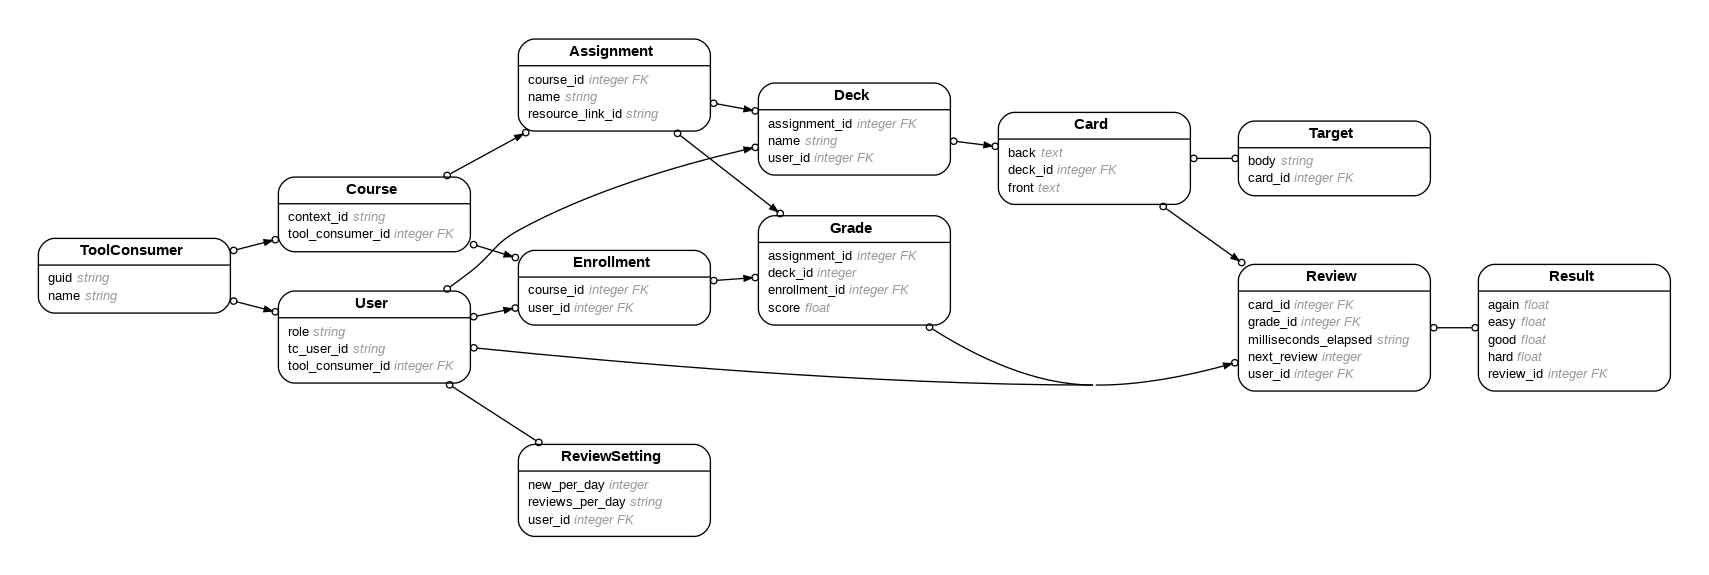
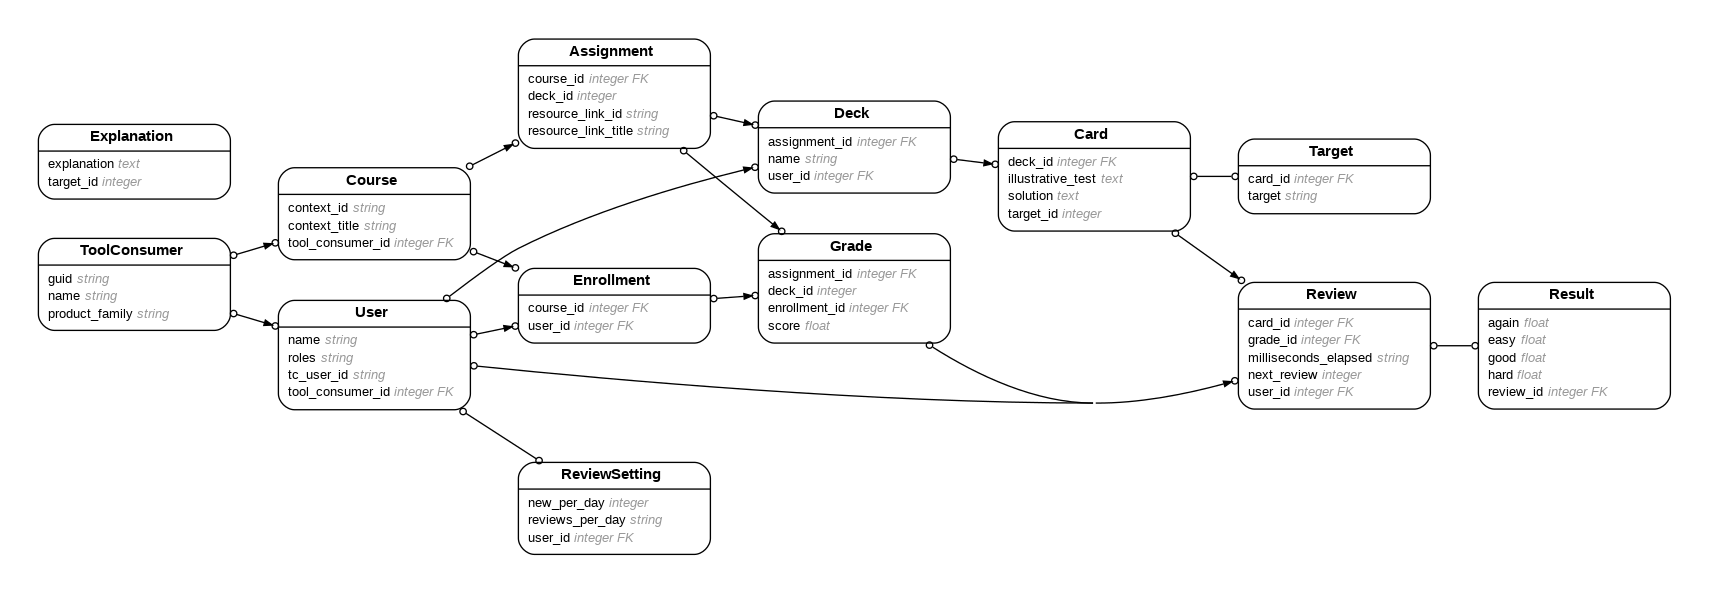
update domain model and update model accordingly

diff --git a/db/schema.rb b/db/schema.rb
@@ -10,7 +10,7 @@
 #
 # It's strongly recommended that you check this file into your version control system.
 
-ActiveRecord::Schema.define(version: 2021_05_31_220739) do
+ActiveRecord::Schema.define(version: 2021_08_11_215713) do
 
   # These are extensions that must be enabled in order to support this database
   enable_extension "plpgsql"
@@ -18,15 +18,17 @@ ActiveRecord::Schema.define(version: 2021_05_31_220739) do
   create_table "assignments", force: :cascade do |t|
     t.integer "course_id"
     t.string "resource_link_id"
-    t.string "name"
+    t.string "resource_link_title"
+    t.integer "deck_id"
     t.datetime "created_at", precision: 6, null: false
     t.datetime "updated_at", precision: 6, null: false
   end
 
   create_table "cards", force: :cascade do |t|
-    t.text "front"
-    t.text "back"
+    t.text "illustrative_test"
+    t.text "solution"
     t.integer "deck_id"
+    t.integer "target_id"
     t.datetime "created_at", precision: 6, null: false
     t.datetime "updated_at", precision: 6, null: false
   end
@@ -34,6 +36,7 @@ ActiveRecord::Schema.define(version: 2021_05_31_220739) do
   create_table "courses", force: :cascade do |t|
     t.integer "tool_consumer_id"
     t.string "context_id"
+    t.string "context_title"
     t.datetime "created_at", precision: 6, null: false
     t.datetime "updated_at", precision: 6, null: false
   end
@@ -49,6 +52,13 @@ ActiveRecord::Schema.define(version: 2021_05_31_220739) do
   create_table "enrollments", force: :cascade do |t|
     t.integer "user_id"
     t.integer "course_id"
+    t.datetime "created_at", precision: 6, null: false
+    t.datetime "updated_at", precision: 6, null: false
+  end
+
+  create_table "explanations", force: :cascade do |t|
+    t.text "explanation"
+    t.integer "target_id"
     t.datetime "created_at", precision: 6, null: false
     t.datetime "updated_at", precision: 6, null: false
   end
@@ -91,7 +101,7 @@ ActiveRecord::Schema.define(version: 2021_05_31_220739) do
   end
 
   create_table "targets", force: :cascade do |t|
-    t.string "body"
+    t.string "target"
     t.integer "card_id"
     t.datetime "created_at", precision: 6, null: false
     t.datetime "updated_at", precision: 6, null: false
@@ -100,14 +110,16 @@ ActiveRecord::Schema.define(version: 2021_05_31_220739) do
   create_table "tool_consumers", force: :cascade do |t|
     t.string "guid"
     t.string "name"
+    t.string "product_family"
     t.datetime "created_at", precision: 6, null: false
     t.datetime "updated_at", precision: 6, null: false
   end
 
   create_table "users", force: :cascade do |t|
-    t.string "role"
+    t.string "roles"
     t.integer "tool_consumer_id"
     t.string "tc_user_id"
+    t.string "name"
     t.datetime "created_at", precision: 6, null: false
     t.datetime "updated_at", precision: 6, null: false
   end

diff --git a/app/models/assignment.rb b/app/models/assignment.rb
@@ -2,12 +2,13 @@
 #
 # Table name: assignments
 #
-#  id               :bigint           not null, primary key
-#  course_id        :integer
-#  resource_link_id :string
-#  name             :string
-#  created_at       :datetime         not null
-#  updated_at       :datetime         not null
+#  id                  :bigint           not null, primary key
+#  course_id           :integer
+#  resource_link_id    :string
+#  resource_link_title :string
+#  deck_id             :integer
+#  created_at          :datetime         not null
+#  updated_at          :datetime         not null
 #
 class Assignment < ApplicationRecord
   belongs_to(:course, { :required => false, :class_name => "Course", :foreign_key => "course_id" })

diff --git a/app/models/card.rb b/app/models/card.rb
@@ -2,12 +2,13 @@
 #
 # Table name: cards
 #
-#  id         :bigint           not null, primary key
-#  front      :text
-#  back       :text
-#  deck_id    :integer
-#  created_at :datetime         not null
-#  updated_at :datetime         not null
+#  id                :bigint           not null, primary key
+#  illustrative_test :text
+#  solution          :text
+#  deck_id           :integer
+#  target_id         :integer
+#  created_at        :datetime         not null
+#  updated_at        :datetime         not null
 #
 class Card < ApplicationRecord
   has_one(:target, { :class_name => "Target", :foreign_key => "card_id", :dependent => :destroy })

diff --git a/app/models/tool_consumer.rb b/app/models/tool_consumer.rb
@@ -2,11 +2,12 @@
 #
 # Table name: tool_consumers
 #
-#  id         :bigint           not null, primary key
-#  guid       :string
-#  name       :string
-#  created_at :datetime         not null
-#  updated_at :datetime         not null
+#  id             :bigint           not null, primary key
+#  guid           :string
+#  name           :string
+#  product_family :string
+#  created_at     :datetime         not null
+#  updated_at     :datetime         not null
 #
 class ToolConsumer < ApplicationRecord
   has_many(:users, { :class_name => "User", :foreign_key => "tool_consumer_id", :dependent => :destroy })

diff --git a/test/models/assignment_test.rb b/test/models/assignment_test.rb
@@ -2,12 +2,13 @@
 #
 # Table name: assignments
 #
-#  id               :bigint           not null, primary key
-#  course_id        :integer
-#  resource_link_id :string
-#  name             :string
-#  created_at       :datetime         not null
-#  updated_at       :datetime         not null
+#  id                  :bigint           not null, primary key
+#  course_id           :integer
+#  resource_link_id    :string
+#  resource_link_title :string
+#  deck_id             :integer
+#  created_at          :datetime         not null
+#  updated_at          :datetime         not null
 #
 require "test_helper"
 

diff --git a/test/models/card_test.rb b/test/models/card_test.rb
@@ -2,12 +2,13 @@
 #
 # Table name: cards
 #
-#  id         :bigint           not null, primary key
-#  front      :text
-#  back       :text
-#  deck_id    :integer
-#  created_at :datetime         not null
-#  updated_at :datetime         not null
+#  id                :bigint           not null, primary key
+#  illustrative_test :text
+#  solution          :text
+#  deck_id           :integer
+#  target_id         :integer
+#  created_at        :datetime         not null
+#  updated_at        :datetime         not null
 #
 require "test_helper"
 

diff --git a/test/models/tool_consumer_test.rb b/test/models/tool_consumer_test.rb
@@ -2,11 +2,12 @@
 #
 # Table name: tool_consumers
 #
-#  id         :bigint           not null, primary key
-#  guid       :string
-#  name       :string
-#  created_at :datetime         not null
-#  updated_at :datetime         not null
+#  id             :bigint           not null, primary key
+#  guid           :string
+#  name           :string
+#  product_family :string
+#  created_at     :datetime         not null
+#  updated_at     :datetime         not null
 #
 require "test_helper"
 

diff --git a/app/models/explanation.rb b/app/models/explanation.rb
@@ -1,0 +1,13 @@
+# == Schema Information
+#
+# Table name: explanations
+#
+#  id          :bigint           not null, primary key
+#  explanation :text
+#  target_id   :integer
+#  created_at  :datetime         not null
+#  updated_at  :datetime         not null
+#
+class Explanation < ApplicationRecord
+  belongs_to(:target, { :required => true, :class_name => "Target", :foreign_key => "target_id" })
+end

diff --git a/test/models/explanation_test.rb b/test/models/explanation_test.rb
@@ -1,0 +1,17 @@
+# == Schema Information
+#
+# Table name: explanations
+#
+#  id          :bigint           not null, primary key
+#  explanation :text
+#  target_id   :integer
+#  created_at  :datetime         not null
+#  updated_at  :datetime         not null
+#
+require "test_helper"
+
+class ExplanationTest < ActiveSupport::TestCase
+  # test "the truth" do
+  #   assert true
+  # end
+end

diff --git a/app/models/user.rb b/app/models/user.rb
@@ -3,9 +3,10 @@
 # Table name: users
 #
 #  id               :bigint           not null, primary key
-#  role             :string
+#  roles            :string
 #  tool_consumer_id :integer
 #  tc_user_id       :string
+#  name             :string
 #  created_at       :datetime         not null
 #  updated_at       :datetime         not null
 #

diff --git a/test/models/user_test.rb b/test/models/user_test.rb
@@ -3,9 +3,10 @@
 # Table name: users
 #
 #  id               :bigint           not null, primary key
-#  role             :string
+#  roles            :string
 #  tool_consumer_id :integer
 #  tc_user_id       :string
+#  name             :string
 #  created_at       :datetime         not null
 #  updated_at       :datetime         not null
 #

diff --git a/db/migrate/20210531215208_create_cards.rb b/db/migrate/20210531215208_create_cards.rb
@@ -1,9 +1,10 @@
 class CreateCards < ActiveRecord::Migration[6.1]
   def change
     create_table :cards do |t|
-      t.text :front
-      t.text :back
+      t.text :illustrative_test
+      t.text :solution
       t.integer :deck_id
+      t.integer :target_id  
 
       t.timestamps
     end
